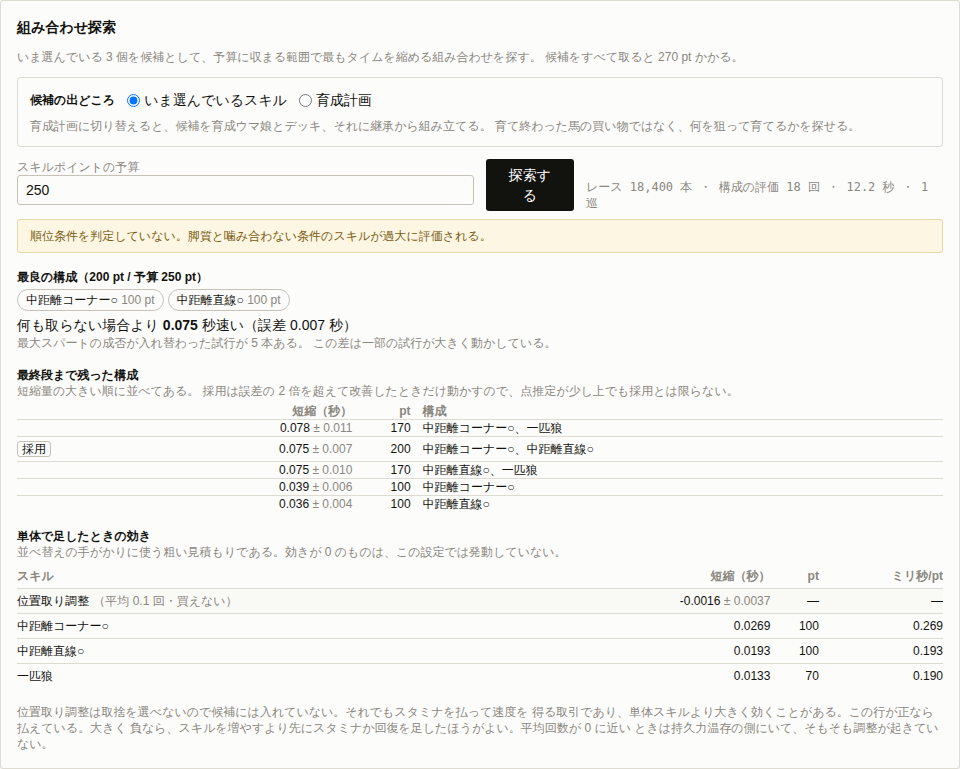
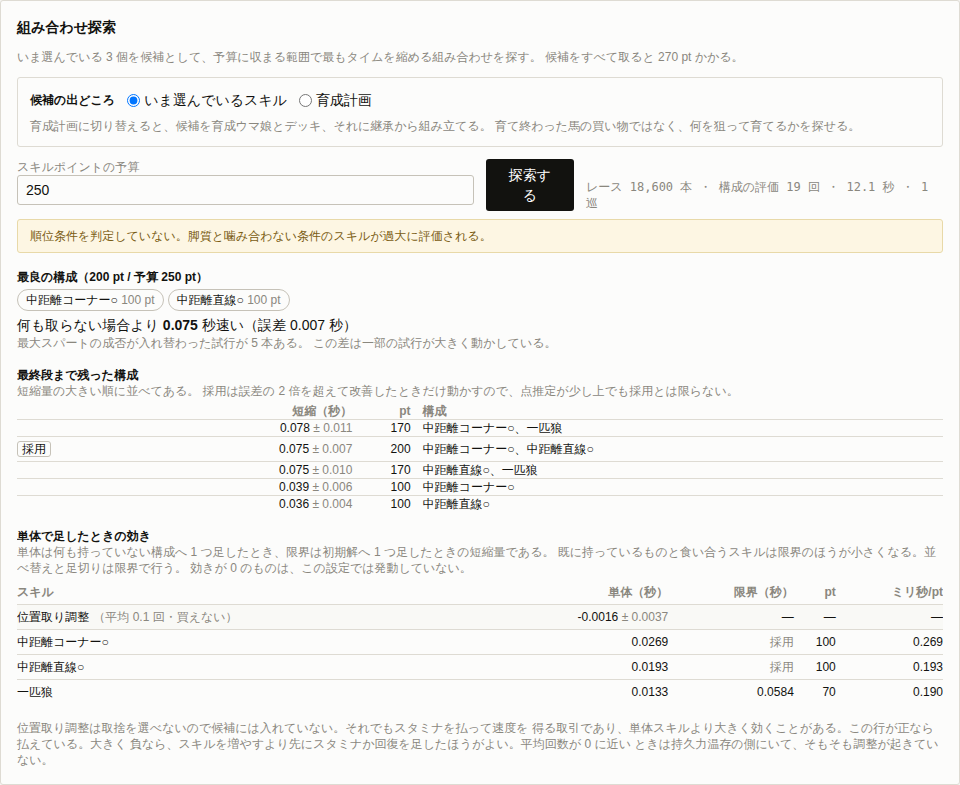
限界貢献度で並べ替えと足切りをする
単体評価は「何も持っていない構成へ 1 つ足す」で測るので、既に持っている
ものと食い合うスキルを過大に評価する。並べ替えも、貪欲な初期解も、近傍の
足切りも、その値で動いていた。

東京 芝1800m で測ると、終盤開始の 1200m で出る加速を 1 つ持っているだけで、
最終直線 1275m で出る加速スキルの短縮量は 6 割に落ちる。持っているものが
固有スキルなら 2 割まで落ちる。差の 75m は、終盤開始と最終直線の間隔である。
シミュレーション自体はこれを正しく再現していたが、探索が単体の値しか見て
いなかったため、食い合う側が枠を取り続けていた。

初期解は 1 つ採るたびに残りを測り直しながら積む。全部を毎回測ると候補数と
採る数の積になるので、前の値を上界として使い、上界でも首位に届かないものは
飛ばす。初期解ができたあと全候補を測り直し、以降の並べ替えと足切りはその
値で行う。

候補が数百あると単体評価と限界貢献度で数分かかるので、25 件ごとに途中経過を
出す。画面と CLI にも限界貢献度の列を足した。

Claude-Session: https://claude.ai/code/session_01N4vN4NwG7MHshBn5PGrz3n

Changed region(s): [[0.0, 0.0, 1.0, 0.9675], [0.75, 0.2185, 0.9375, 0.2497], [0.625, 0.2185, 0.7188, 0.2497]]

diff --git a/packages/solver/src/optimize.ts b/packages/solver/src/optimize.ts
@@ -252,6 +252,8 @@ export interface OptimizeResult {
   /** 最終段まで残った構成を、短縮量の大きい順に並べたもの */
   readonly top: readonly OptimizeEntry[];
   readonly singles: readonly SingleEffect[];
+  /** 初期解に 1 つ足したときの短縮量。並べ替えと足切りはこちらで行う。 */
+  readonly marginals: readonly SingleEffect[];
   /** 買えないが効いているもの。測らなかったときは null。 */
   readonly positionCompetition: PositionCompetitionEffect | null;
   readonly cost: number;
@@ -263,6 +265,8 @@ export interface OptimizeResult {
 
 const DEFAULT_STAGES = [200, 600, 2000];
 const DEFAULT_INHERITED_UNIQUE_LIMIT = 6;
+/** 途中経過を出す間隔。候補が数百あるので、黙って何分も走るのを避ける。 */
+const PROGRESS_EVERY = 25;
 const DEFAULT_NEIGHBOUR_TOP_K = 30;
 
 /** 固有の継承版の本数が上限に収まっているか。 */
@@ -318,39 +322,114 @@ export async function optimizeSkills(
     evaluator.races += positionCompetition.races;
   }
 
-  // 単体評価。並べ替えの手がかりなので、少ない試行で足りる。
-  report('単体評価');
+  // 単体評価。貪欲な初期解を作るための手がかりなので、少ない試行で足りる。
+  report(`単体評価: ${candidates.length} 個`);
   const singles: SingleEffect[] = [];
   const baselineShort = await evaluator.evaluate(baseIds, firstStage);
-  for (const id of candidates) {
+  for (const [index, id] of candidates.entries()) {
     abort();
     const evaluation = await evaluator.evaluate([...baseIds, id], firstStage);
     const diff = pairedDiff(baselineShort, evaluation);
     const cost = context.cost.cost(id);
     singles.push({ skillId: id, diff, cost, efficiency: cost === 0 ? 0 : diff.mean / cost });
+    if ((index + 1) % PROGRESS_EVERY === 0) {
+      report(`  単体評価 ${index + 1} / ${candidates.length}`);
+    }
   }
   singles.sort((a, b) => b.efficiency - a.efficiency);
 
-  // 貪欲な初期解
+  // 貪欲な初期解。1 つ採るたびに、残りの限界貢献度を測り直す。
+  //
+  // 単体の順に積み上げると、食い合うスキルを並べて取ってしまう。
+  // 最終直線で出る加速スキルは、終盤の頭で出る加速を既に持っていると
+  // 5 分の 1 まで落ちるのに、単体の値では横並びに見える。
+  //
+  // 毎回すべて測り直すと、候補数と採る数の積だけ走ることになる。
+  // 限界貢献度は構成が育つほど下がりやすいので、前に測った値を上界として
+  // 扱い、上界でも首位に届かないものは測らずに飛ばす。上界が下がらない
+  // 場合（噛み合って伸びる組み合わせ）もあるため、これは近似である。
   let current: string[] = [...baseIds];
-  for (const single of singles) {
-    if (single.diff.mean <= 0) continue;
-    const next = dedupeByGroup(
-      [...selected(current, candidates), single.skillId],
-      context.cost,
+  const bounds = new Map(singles.map((s) => [s.skillId, s.efficiency]));
+  const remaining = new Set(candidates);
+  for (let picked = 0; ; picked++) {
+    abort();
+    const held = selected(current, candidates);
+    const heldCost = context.cost.totalCost(held);
+    const currentEval = await evaluator.evaluate(current, firstStage);
+
+    let bestId: string | null = null;
+    let bestEfficiency = 0;
+    let measured = 0;
+    const queue = [...remaining].sort((a, b) => (bounds.get(b) ?? 0) - (bounds.get(a) ?? 0));
+    for (const id of queue) {
+      if ((bounds.get(id) ?? 0) <= bestEfficiency) break;
+      const next = dedupeByGroup([...held, id], context.cost);
+      const addedCost = context.cost.totalCost(next) - heldCost;
+      if (heldCost + addedCost > options.budget) continue;
+      if (!withinInheritedUniqueLimit(next, context.cost, inheritedUniqueLimit)) continue;
+      const evaluation = await evaluator.evaluate([...baseIds, ...next], firstStage);
+      const diff = pairedDiff(currentEval, evaluation);
+      const efficiency = addedCost <= 0 ? 0 : diff.mean / addedCost;
+      bounds.set(id, efficiency);
+      measured++;
+      if (efficiency > bestEfficiency) {
+        bestEfficiency = efficiency;
+        bestId = id;
+      }
+    }
+    if (bestId === null) break;
+    remaining.delete(bestId);
+    current = [...baseIds, ...dedupeByGroup([...held, bestId], context.cost)];
+    report(
+      `  ${picked + 1} 個目: ${bestId} を採る（測り直し ${measured} 件）`,
     );
-    if (context.cost.totalCost(next) > options.budget) continue;
-    if (!withinInheritedUniqueLimit(next, context.cost, inheritedUniqueLimit)) continue;
-    current = [...baseIds, ...next];
   }
   report(`貪欲な初期解: ${selected(current, candidates).length} 個 / ${context.cost.totalCost(selected(current, candidates))} pt`);
 
-  // 最終段まで残った構成は、採否によらず記録する。
-  // 採用したものだけを残すと、僅差で負けた構成が見えなくなるためである。
-  // 近傍に使う候補。単体評価の効率で上位から採る。
+  // 限界貢献度。初期解に 1 つ足したときの短縮量で測り直す。
+  //
+  // 単体評価は「何も持っていない構成へ 1 つ足す」で測るので、既に持っている
+  // ものと食い合うスキルを過大に評価する。最終直線で出る加速スキルは、終盤の
+  // 頭で出る加速を既に持っていると 5 分の 1 まで落ちる。それでも並べ替えと
+  // 足切りを単体の値でやると、食い合う側が枠を取り続ける。
+  // docs/solver-design.md 3.4 節を参照。
+  report(`限界貢献度: ${candidates.length} 個`);
+  const marginals: SingleEffect[] = [];
+  const currentShort = await evaluator.evaluate(current, firstStage);
+  const pickedNow = selected(current, candidates);
+  const pickedCost = context.cost.totalCost(pickedNow);
+  const pickedSet = new Set(pickedNow);
+  for (const [index, id] of candidates.entries()) {
+    abort();
+    if (pickedSet.has(id)) continue;
+    const next = dedupeByGroup([...pickedNow, id], context.cost);
+    // 同じグループの上位に乗り換えるときは、費用は差額になる。
+    const addedCost = context.cost.totalCost(next) - pickedCost;
+    const evaluation = await evaluator.evaluate([...baseIds, ...next], firstStage);
+    const diff = pairedDiff(currentShort, evaluation);
+    marginals.push({
+      skillId: id,
+      diff,
+      cost: addedCost,
+      efficiency: addedCost <= 0 ? 0 : diff.mean / addedCost,
+    });
+    if ((index + 1) % PROGRESS_EVERY === 0) {
+      report(`  限界貢献度 ${index + 1} / ${candidates.length}`);
+    }
+  }
+  marginals.sort((a, b) => b.efficiency - a.efficiency);
+
+  // 近傍に使う候補。限界貢献度の効率で上位から採る。
+  // いま選んでいるものは必ず残す。外したあとに戻せなくなるのを避けるためである。
   // selected() には全候補を渡し続ける。絞ったせいで、いま選ばれているものを
   // 候補でないと見なして外せなくなるのを避けるためである。
-  const moveCandidates = singles.slice(0, Math.max(1, neighbourTopK)).map((s) => s.skillId);
+  const moveCandidates = [
+    ...pickedNow,
+    ...marginals.slice(0, Math.max(1, neighbourTopK)).map((s) => s.skillId),
+  ];
+
+  // 最終段まで残った構成は、採否によらず記録する。
+  // 採用したものだけを残すと、僅差で負けた構成が見えなくなるためである。
 
   const seen = new Map<string, OptimizeEntry>();
   const record = async (ids: readonly string[]) => {
@@ -427,6 +506,7 @@ export async function optimizeSkills(
     bestDiff: currentDiff,
     top,
     singles,
+    marginals,
     positionCompetition,
     cost: context.cost.totalCost(selected(current, candidates)),
     races: evaluator.races,

diff --git a/apps/web/src/components/Optimize.tsx b/apps/web/src/components/Optimize.tsx
@@ -31,6 +31,9 @@ export function OptimizePanel() {
   const poolCost = costModel.totalCost(skillIds);
   const routeOf = (id: string) =>
     planCandidates?.entries.find((entry) => entry.skillId === id)?.route ?? null;
+  // 初期解に入ったものは限界貢献度を測らない。足しても構成が変わらないためである。
+  const marginalOf = (id: string) =>
+    result?.marginals.find((entry) => entry.skillId === id) ?? null;
 
   return (
     <Panel title="組み合わせ探索">
@@ -181,13 +184,16 @@ export function OptimizePanel() {
           <div className="overflow-x-auto">
             <h3 className="text-xs font-semibold">単体で足したときの効き</h3>
             <p className="text-xs text-ink3">
-              並べ替えの手がかりに使う粗い見積もりである。効きが 0 のものは、この設定では発動していない。
+              単体は何も持っていない構成へ 1 つ足したとき、限界は初期解へ 1 つ足したときの短縮量である。
+              既に持っているものと食い合うスキルは限界のほうが小さくなる。並べ替えと足切りは限界で行う。
+              効きが 0 のものは、この設定では発動していない。
             </p>
             <table className="mt-1 w-full text-xs">
               <thead className="text-ink3">
                 <tr>
                   <th className="py-1 text-left">スキル</th>
-                  <th className="text-right">短縮（秒）</th>
+                  <th className="text-right">単体（秒）</th>
+                  <th className="text-right">限界（秒）</th>
                   <th className="text-right">pt</th>
                   <th className="text-right">ミリ秒/pt</th>
                   {planCandidates !== null && <th className="pl-3 text-left">経路</th>}
@@ -211,6 +217,7 @@ export function OptimizePanel() {
                     </td>
                     <td className="text-right tabular-nums">—</td>
                     <td className="text-right tabular-nums">—</td>
+                    <td className="text-right tabular-nums">—</td>
                     {planCandidates !== null && <td className="pl-3 text-ink3">—</td>}
                   </tr>
                 )}
@@ -221,6 +228,13 @@ export function OptimizePanel() {
                   >
                     <td className="py-1">{name(single.skillId)}</td>
                     <td className="text-right tabular-nums">{single.diff.mean.toFixed(4)}</td>
+                    <td className="text-right tabular-nums">
+                      {marginalOf(single.skillId) === null ? (
+                        <span className="text-ink3">採用</span>
+                      ) : (
+                        marginalOf(single.skillId)!.diff.mean.toFixed(4)
+                      )}
+                    </td>
                     <td className="text-right tabular-nums">{single.cost}</td>
                     <td className="text-right tabular-nums">
                       {(1000 * single.efficiency).toFixed(3)}

diff --git a/packages/sim/test/optimize.test.ts b/packages/sim/test/optimize.test.ts
@@ -244,3 +244,69 @@ describe('位置取り調整の参考行', () => {
     }
   }, 180000);
 });
+
+describe('限界貢献度', () => {
+  /**
+   * 単体評価は「何も持っていない構成へ 1 つ足す」で測るので、既に持っている
+   * ものと食い合うスキルを過大に評価する。
+   *
+   * 東京 芝1800m は終盤開始が 1200m、最終直線が 1275m で、その差は 75m しかない。
+   * 終盤の頭で出る加速を既に持っていると、最終直線で出る加速は目標速度に
+   * 追いつくまでの余地を食い合う。並べ替えと足切りを単体の値でやると、
+   * 食い合う側が枠を取り続ける。docs/solver-design.md 3.4 節を参照。
+   */
+  const tokyo1800 = { location: 10006, course: 10603, condition: 1, gateCount: 9 } as const;
+
+  /** 同じ名前で固有と継承版があるので、買えるほうを採る。 */
+  const buyable = (name: string) => {
+    const found = data.skillsByName.get(name)?.find((s) => s.sp > 0);
+    if (found === undefined) throw new Error(`買えるスキルが見つからない: ${name}`);
+    return found;
+  };
+
+  it('先に加速を持っていると、最終直線の加速スキルの値が下がる', async () => {
+    const early = buyable('アングリング×スキーミング');
+    const late = ['真っ向勝負', 'ハイボルテージ', '心弾んで', '足任せ'].map(buyable);
+    const pool = new WorkerPool(nodeWorkerFactory);
+    try {
+      const result = await optimizeSkills(
+        {
+          pool,
+          system,
+          base: toSerializable({ ...setting, track: tokyo1800 }),
+          cost: createCostModel(data.skillsById),
+          seed: 20260912,
+          field: null,
+        },
+        {
+          // 予算は 200 pt。まず 1 つだけ取れる。
+          candidates: [early, ...late].map((s) => s.id),
+          budget: 200,
+          stages: [600],
+          maxRounds: 1,
+          measurePositionCompetition: false,
+        },
+      );
+
+      // 効率がいちばん高いものが初期解に入る
+      expect(result.best).toEqual([early.id]);
+
+      const single = new Map(result.singles.map((s) => [s.skillId, s.diff.mean]));
+      const marginal = new Map(result.marginals.map((s) => [s.skillId, s.diff.mean]));
+
+      // 採ったものは限界貢献度を測らない（足しても構成が変わらない）
+      expect(marginal.has(early.id)).toBe(false);
+
+      for (const skill of late) {
+        const alone = single.get(skill.id)!;
+        const after = marginal.get(skill.id)!;
+        expect(alone).toBeGreaterThan(0);
+        // 食い合うので必ず下がる。実測では 6 割ほどまで落ちる。
+        expect(after).toBeLessThan(alone * 0.85);
+        expect(after).toBeGreaterThan(0);
+      }
+    } finally {
+      await pool.dispose();
+    }
+  });
+});

diff --git a/packages/solver/src/plan-cli.ts b/packages/solver/src/plan-cli.ts
@@ -116,12 +116,14 @@ const result = await optimizeSkills(context, {
 });
 
 console.log('');
-console.log('単体で効いた上位（200 試行）:');
-for (const single of result.singles.slice(0, 12)) {
-  const entry = plan.entries.find((e) => e.skillId === single.skillId);
+console.log('限界貢献度の上位（初期解に 1 つ足したときの短縮量）:');
+for (const marginal of result.marginals.slice(0, 12)) {
+  const entry = plan.entries.find((e) => e.skillId === marginal.skillId);
+  const single = result.singles.find((s) => s.skillId === marginal.skillId);
   console.log(
-    `  ${name(single.skillId).padEnd(12, '　')} ${single.diff.mean.toFixed(4)} 秒 / ${single.cost} pt` +
-      ` = ${(1000 * single.efficiency).toFixed(3)} ミリ秒/pt` +
+    `  ${name(marginal.skillId).padEnd(12, '　')} ${marginal.diff.mean.toFixed(4)} 秒 / ${marginal.cost} pt` +
+      ` = ${(1000 * marginal.efficiency).toFixed(3)} ミリ秒/pt` +
+      (single === undefined ? '' : `（単体 ${single.diff.mean.toFixed(4)} 秒）`) +
       (entry === undefined ? '' : `  ${routeLabel[entry.route]}`),
   );
 }

diff --git a/docs/solver-design.md b/docs/solver-design.md
@@ -189,14 +189,40 @@ subject to cost(S) ≤ 予算
 ### 3.4 探索の手順
 
 1. **単体評価**：各候補を単独で加えたときの短縮量を、少ない試行数で測る。ポイント当たりの効率で並べる。
-2. **貪欲な初期解**：効率の高い順に、予算に収まる範囲で採用して初期解を作る。
-3. **局所探索**：初期解に対して、1 つ追加する、1 つ外す、1 つを別のものに入れ替える、という近傍を試す。共通乱数によるペア差分で比較し、有意に改善するときだけ移動する。
-4. **多点開始**：初期解を貪欲法だけに頼らず、乱択で作った複数の初期解からも走らせ、最良を採る。
-5. **仕上げ**：得られた上位の解について、試行数を増やして順位を確定させる。
+2. **貪欲な初期解**：1 つ採るたびに、残りの候補の限界貢献度を測り直しながら積む。
+3. **限界貢献度**：初期解ができた時点で、全候補をそこへ 1 つ足したときの短縮量で測り直す。以降の並べ替えと足切りはこの値で行う。
+4. **局所探索**：初期解に対して、1 つ追加する、1 つ外す、1 つを別のものに入れ替える、という近傍を試す。共通乱数によるペア差分で比較し、有意に改善するときだけ移動する。
+5. **多点開始**：初期解を貪欲法だけに頼らず、乱択で作った複数の初期解からも走らせ、最良を採る。
+6. **仕上げ**：得られた上位の解について、試行数を増やして順位を確定させる。
 
 分枝限定法のような厳密解法は採らない。
 単体貢献度の和が上界になる保証がなく、探索木を安全に刈れないためである。
 これはヒューリスティックであり、最適解であることは保証しないと明示する。
+
+#### 単体の値のまま積み上げてはいけない
+
+初期解を単体評価の順に積むと、食い合うスキルを並べて取ってしまう。
+
+東京 芝1800m がその例である。
+終盤開始が 1200m、最終直線が 1275m で、差は 75m しかない。
+終盤に入ると目標速度が上がり、そこへ追いつくまでの間だけ加速が効く。
+モデルではこの追いつきに 261m かかるので、1275m の時点では速度の余地が 3.1 m/s 残っている。
+つまり最終直線で出る加速スキルは、まだ余地があるぶんだけ効く。
+
+ところがその余地は、先に出た加速スキルが食う。
+終盤の頭で出る加速を 1 つ持っているだけで、最終直線で出る加速スキルの短縮量は 6 割に落ちる。
+持っているものが固有スキルのように強ければ 2 割まで落ちる。
+単体評価はどれも「何も持っていない構成へ 1 つ足す」で測るので、この食い合いが見えない。
+
+同じことは他にもある。
+加速している最中に出る速度スキルは、目標速度を上げても追いつけないので収支が合わない。
+坂を登り切った位置で出る加速スキルは、下り坂に入って余地が戻るぶんだけ効く。
+どれも構成全体を走らせれば正しく出るが、単体評価では出ない。
+
+そこで、初期解を積むときと足切りをするときの両方で、限界貢献度を使う。
+限界貢献度は構成が育つほど下がりやすいので、前に測った値を上界として扱い、上界でも首位に届かない候補は測らずに飛ばす。
+これで測り直しの回数は候補数と採る数の積にならずに済む。
+噛み合って伸びる組み合わせでは上界が成り立たないため、この刈り込みは近似である。
 
 ### 3.5 評価予算の配分
 
@@ -398,7 +424,8 @@ M1 の内容にも変更が入る。
 | 入れ替え先を上位 30 に絞る | 278 通り | 5.6 万 | 33 秒 |
 
 絞らずに 8 巡すると 1 時間を超える。
-入れ替え先を単体評価の効率で上位 30 に制限すれば実用の範囲に収まる。
+入れ替え先を限界貢献度の効率で上位 30 に制限すれば実用の範囲に収まる。
+単体評価の効率で切ってはいけない。3.4 節のとおり、食い合うスキルがその順位では上に来てしまう。
 
 単体評価そのものは 457 候補で 9.1 万レース、54 秒である。
 白と固有の継承版はどちらも育成ウマ娘にもデッキにも依存しないので、この単体評価はコースと脚質と代表ステータスの組ごとに先に済ませて配れる。
@@ -437,7 +464,7 @@ M1 の内容にも変更が入る。
 
 - **単調性が破れた場合の扱い**：2.3 節の検査結果によっては、臨界値探索を全走査に切り替える。計算量が数倍になるため、探索範囲の刻み幅を含めて M5 で決める。
 - **目的関数の既定値**：平均タイムを既定にするか、下位 2 割の平均（安定性）を既定にするかは、使い方次第である。両方を並べて表示し、既定は使ってから決める。
-- **候補スキル数の上限**：7.5 節の見積もりのとおり、入れ替え先を単体評価の上位で足切りしないと仕上げまで到達しない。切る本数は、足切りで最良解を落とす頻度を測ってから決める。固有の継承版は枠が 6 つしかないぶん噛み合わせで選ぶことになるため、単体では目立たない候補を落とす影響が大きい。
+- **候補スキル数の上限**：7.5 節の見積もりのとおり、入れ替え先を限界貢献度の上位で足切りしないと仕上げまで到達しない。切る本数は、足切りで最良解を落とす頻度を測ってから決める。固有の継承版は枠が 6 つしかないぶん噛み合わせで選ぶことになるため、単体では目立たない候補を落とす影響が大きい。
 - **金スキルの入手経路**：本家のサポートカードデータのヒントは 2224 件すべてが白で、金は 1 件も無い。金は育成ウマ娘側にだけ 228 種類現れる。実機がそうなのか、データが白に限られているのかを確かめる必要がある。
 - **直線コースと小回りの出どころ**：7.3 節で残る白 202 個のうち 52 個は、サポートカードにも育成ウマ娘にも現れない。26 個はアオハル点火とレースの真髄を含むシナリオ由来で、継承で外付けするのが通例である。23 個は ◎ の上位版であり、同じグループの下位が出るので到達できる。残る星の煌きと華麗な踏み込みと連綿の 3 個は 7.6 節のデータの遅れである。ここには出てこないが、直線コースと小回りの ○ と ◎ もどちらのファイルにも無い。東京 芝2400m では静的な絞り込みで落ちるだけなので、これらが発動しうるコースでは同じ問いが残る。
 - **固有の継承版の効果レベル**：継承版の効果量は親の状態で変わる。現在の設定は固有スキルのレベルを 1 つの値で持っているため、継承版を候補に入れるなら別に持つ必要がある。
